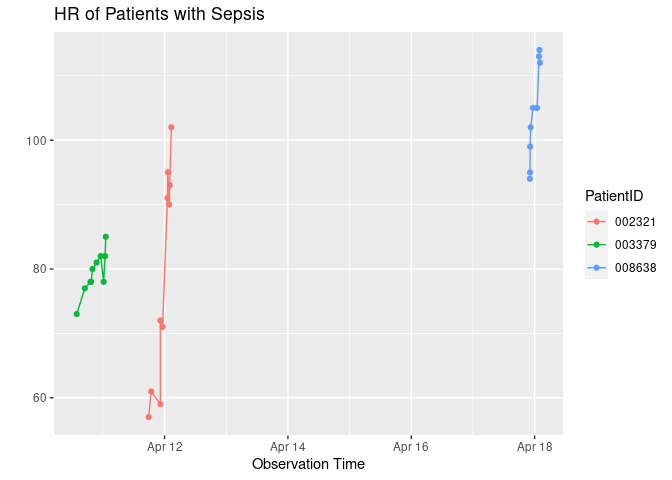
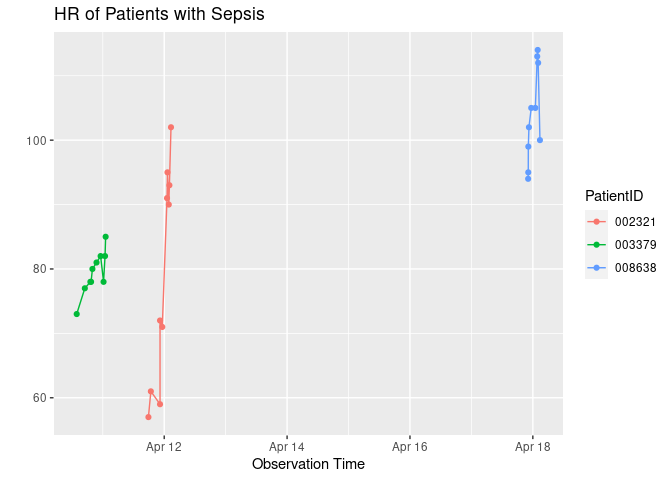
Updated report

diff --git a/README.md b/README.md
@@ -8,13 +8,13 @@ Yansong Wen
 
 \#TASK 4
 
-    [1] "2023-04-18 02:33:16 UTC"
+    [1] "2023-04-18 03:18:50 UTC"
 
 | PatientID |  HR | Temp | Resp |
 |:----------|----:|-----:|-----:|
 | 002321    | 102 |   NA |   20 |
 | 003379    |  85 |   NA |   32 |
-| 008638    | 112 |   NA |   13 |
+| 008638    | 100 |   NA |   16 |
 
 ![](README_files/figure-commonmark/unnamed-chunk-4-1.png)
 
@@ -68,7 +68,7 @@ Yansong Wen
 | 007742    |  NA |    NA |    NA |
 | 007753    |  NA |    NA |    NA |
 | 008527    |  NA |    NA |    NA |
-| 008638    |  -2 |    NA |   -10 |
+| 008638    | -12 |    NA |     3 |
 | 008639    |  -4 |    NA |     2 |
 | 008828    |   6 |   0.0 |    -5 |
 | 009301    |   4 |    NA |     0 |
